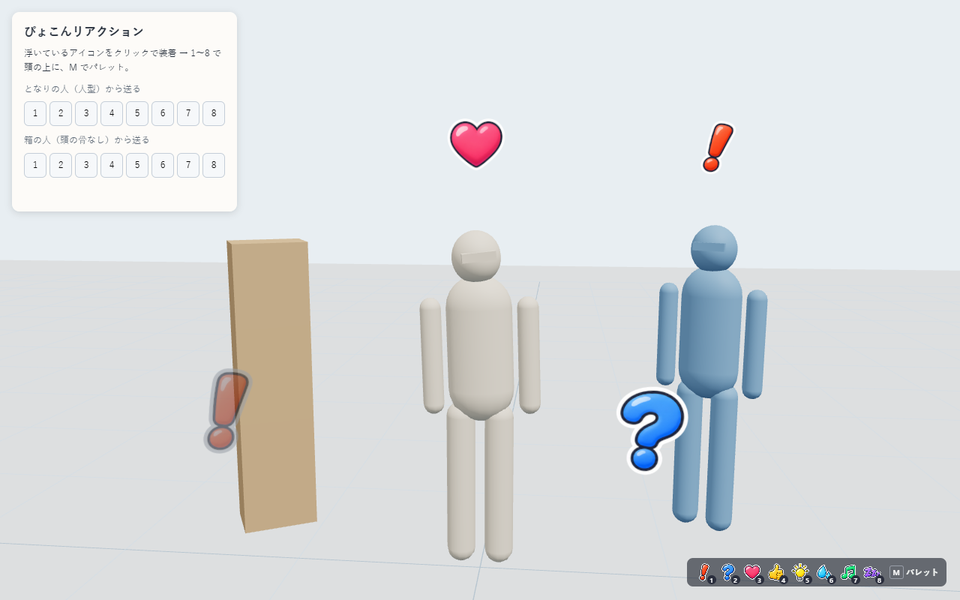
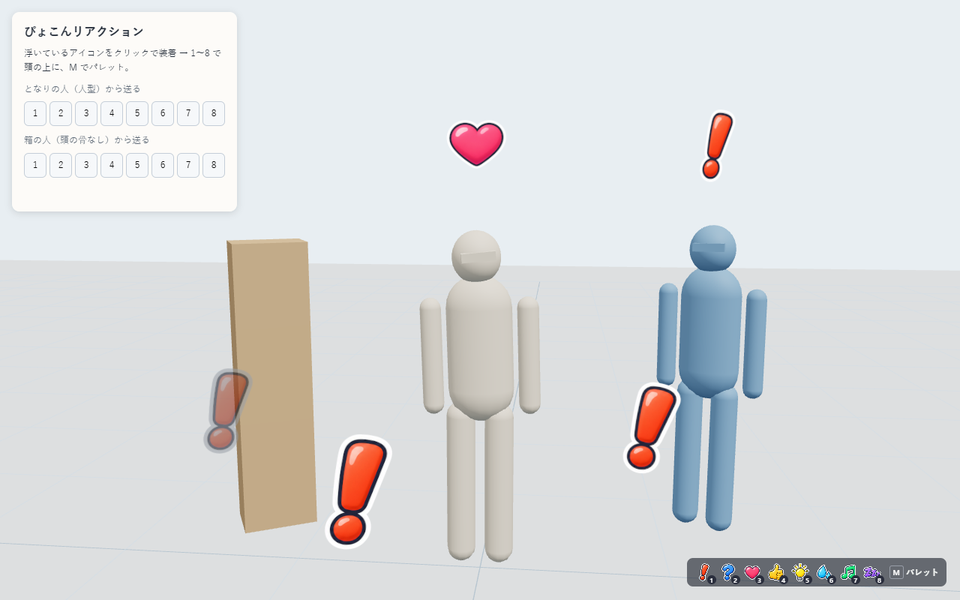
One stand per placer instead of per room
Uses useItem().placedBy (server-set) so a person's extra copies stop,
while copies placed by other people stay usable. Exactly one live copy
per room renders and receives pops; a pop fired from any stand is routed
to it, so reactions never double.

diff --git a/src/Item.tsx b/src/Item.tsx
@@ -8,7 +8,7 @@ import {createHeadTracker} from './head.mjs'
 import {isIconIndex} from './icons.mjs'
 import {isEditing} from './input.mjs'
 import {Palette} from './Palette'
-import {placementRole,registerPlacement,subscribePlacements} from './placements.mjs'
+import {bindRenderer,placementRole,registerPlacement,rendererId,showPop,subscribePlacements} from './placements.mjs'
 import {createPopRuntime} from './pops.mjs'
 import {attachRenderHook} from './render-hook.mjs'
 import {registerShortcuts} from './shortcuts.mjs'
@@ -30,15 +30,18 @@ export function Item(props:ItemProps){
 }
 
 function HeadPop({position=[0,0,0],rotation=[0,0,0],scale=1,clock}:ItemProps){
- const {id}=useItem(),users=useUsers(),placement=usePlacementState(),{scene,gl}=useThree()
+ const {id,placedBy}=useItem(),users=useUsers(),placement=usePlacementState(),{scene,gl}=useThree()
  const texture=useIconAtlas(),geometries=useIconGeometries()
  // Read the context directly: an older host without instance events still shows local pops.
  const events=useContext(InstanceEventContext)
  const preview=placement.mode==='preview',localId=users.localUser?.id??null
- // One stand per room: extra copies stay grey and inert (XRift has no documented single-place switch).
- useLayoutEffect(()=>registerPlacement(id,preview),[id,preview])
+ // One stand per placer: a person's extra copies stay grey and inert (XRift has no documented
+ // single-place switch). One live copy per room renders the pops (see placements.mjs).
+ const placer=placedBy?.id??null
+ useLayoutEffect(()=>registerPlacement(id,preview,placer),[id,preview,placer])
  const role=useSyncExternalStore(subscribePlacements,()=>placementRole(id),()=>'primary')
- const live=!preview&&role==='primary'
+ const isRenderer=useSyncExternalStore(subscribePlacements,()=>rendererId()===id,()=>true)
+ const live=!preview&&role==='primary',renderer=live&&isRenderer
  const [worn,setWorn]=useState(false),[paletteOpen,setPaletteOpen]=useState(false)
  const [fired,setFired]=useState<{icon:number;seq:number}|null>(null),[hintVisible,setHintVisible]=useState(false)
  const root=useRef<Group>(null),layer=useRef<Group>(null)
@@ -71,7 +74,7 @@ function HeadPop({position=[0,0,0],rotation=[0,0,0],scale=1,clock}:ItemProps){
     if(!ctx.worn||!isIconIndex(action.icon))return false
     const t=now();if(t-lastLocalPop.current<LOCAL_GAP_S&&t>=lastLocalPop.current)return true
     lastLocalPop.current=t
-    const seq=runtime.current?.show(ctx.localId,action.icon)??0
+    const seq=showPop(ctx.localId,action.icon)??0
     eventsRef.current?.emit(name,makePayload(action.icon))
     setFired({icon:action.icon,seq})
     if(ctx.paletteOpen){latest.current={...ctx,paletteOpen:false};setPaletteOpen(false)}
@@ -81,18 +84,30 @@ function HeadPop({position=[0,0,0],rotation=[0,0,0],scale=1,clock}:ItemProps){
   return false
  },[name,now])
 
- // Other people's pops. The sender never receives its own event; act() shows it locally.
+ // Other people's pops, received once per room by the renderer copy. The sender never
+ // receives its own event; act() shows it locally through showPop().
  useEffect(()=>{
-  if(!events||!live)return
+  if(!events||!renderer)return
   return events.subscribe(name,data=>{
    const e=readEvent(data);if(!e||e.senderId===latest.current.localId)return
    if(!gate.allow(e.senderId,performance.now()))return
    runtime.current?.show(e.senderId,e.icon)
   })
- },[events,name,live,gate])
+ },[events,name,renderer,gate])
 
+ // Every live stand can be worn; keys go to the single worn copy (shortcuts.mjs).
  useEffect(()=>{
-  if(!live||!root.current||!layer.current)return
+  if(!live||!root.current)return
+  const keys=registerShortcuts(id,{worn:()=>latest.current.worn&&latest.current.live,handle:act})
+  shortcuts.current=keys
+  const node=root.current
+  node.userData.headPopActions={act}
+  return()=>{keys.dispose();shortcuts.current=null;delete node.userData.headPopActions}
+ },[id,live,act])
+
+ // The room's renderer copy owns the head tracking and the pooled icons.
+ useEffect(()=>{
+  if(!renderer||!root.current||!layer.current)return
   const proxy={
    getLocalMovement:()=>usersRef.current.getLocalMovement(),
    getMovement:(userId:string)=>usersRef.current.getMovement(userId),
@@ -103,12 +118,9 @@ function HeadPop({position=[0,0,0],rotation=[0,0,0],scale=1,clock}:ItemProps){
   const pops=createPopRuntime({layer:layer.current,texture,geometries,tracker,getLocalId:()=>latest.current.localId,now})
   runtime.current=pops
   const hook=attachRenderHook(scene,{place:()=>pops.place(),face:camera=>pops.face(camera)})
-  const keys=registerShortcuts(id,{worn:()=>latest.current.worn&&latest.current.live,handle:act})
-  shortcuts.current=keys
-  const node=root.current
-  node.userData.headPopActions={act}
-  return()=>{keys.dispose();hook.dispose();pops.dispose();tracker.clear();runtime.current=null;shortcuts.current=null;delete node.userData.headPopActions;delete node.userData.headPop}
- },[scene,id,live,texture,geometries,act,now])
+  const unbind=bindRenderer(id,(userId:string,icon:number)=>pops.show(userId,icon))
+  return()=>{unbind();hook.dispose();pops.dispose();tracker.clear();runtime.current=null}
+ },[scene,id,renderer,texture,geometries,now])
 
  // A copy that stops being the room's stand (another copy took over) lets go of the wearer.
  useEffect(()=>{if(!live&&latest.current.worn){latest.current={...latest.current,worn:false,paletteOpen:false};setWorn(false);setPaletteOpen(false)}},[live])
@@ -123,12 +135,13 @@ function HeadPop({position=[0,0,0],rotation=[0,0,0],scale=1,clock}:ItemProps){
   const t=frameClock.elapsedTime
   if(root.current&&t-lastReport.current>.1){
    lastReport.current=t
-   root.current.userData.headPop={itemId:id,role,worn:ctx.worn,paletteOpen:ctx.paletteOpen,hint:show,events:events?'instance-event':'unavailable',channel:name,pops:runtime.current?.report()??[],vr:{...vr,fires:vrFires.current},palette:ctx.paletteOpen?paletteLayout.current:null,fired}
+   root.current.userData.headPop={itemId:id,role,renderer,placer,worn:ctx.worn,paletteOpen:ctx.paletteOpen,hint:show,events:events?'instance-event':'unavailable',channel:name,pops:runtime.current?.report()??[],vr:{...vr,fires:vrFires.current},palette:ctx.paletteOpen?paletteLayout.current:null,fired}
   }
  })
 
  const mode:StandMode=preview?(role==='preview-duplicate'?'preview-blocked':'preview'):live?'live':'ghost'
- const standText=mode==='ghost'?'この部屋にはもう置いてあります（これは止まっています）':worn?'リアクションを選ぶ':'頭に付ける（キー1〜8／VRは右スティック押し込み）'
+ const ghostText=placedBy?.isLocalUser?'もう1個置いてあります（これは止まっています。片付けてください）':placer?'同じ人がもう1個置いています（これは止まっています）':'もう1個置いてあります（これは止まっています）'
+ const standText=mode==='ghost'?ghostText:worn?'リアクションを選ぶ':'頭に付ける（キー1〜8／VRは右スティック押し込み）'
  return <group ref={root}>
   <group position={position} rotation={rotation} scale={scale}>
    <Stand id={id} mode={mode} texture={texture} geometries={geometries} interactionText={standText} enabled={!preview&&!!localId} onInteract={()=>{if(latest.current.live)act(latest.current.worn?{type:'palette',open:true}:{type:'wear'})}}/>

diff --git a/src/dev.tsx b/src/dev.tsx
@@ -14,6 +14,7 @@ import './style.css'
 const PLACEMENT='head-pop-one',SDK_ITEM_ID='00000000-0000-4000-8000-0000000000a1'
 /** ?shot: thumbnail framing (two people close together, no panel, no hint). */
 const SHOT=new URLSearchParams(location.search).has('shot')
+const ME={id:'local-dev',displayName:'わたし',avatarUrl:null,isLocalUser:true},NEIGHBOR={id:'remote-a',displayName:'となりの人',avatarUrl:null,isLocalUser:false}
 const REMOTES=[
  {id:'remote-a',displayName:'となりの人',position:SHOT?{x:.82,y:0,z:-.3}:{x:1.25,y:0,z:-.55},yaw:SHOT?Math.PI-.75:Math.PI-.5,kind:'humanoid' as const,color:'#7fa7c9'},
  {id:'remote-b',displayName:'箱の人',position:{x:-1.3,y:0,z:-.5},yaw:Math.PI+.5,kind:'box' as const,color:'#c9a77f'},
@@ -86,7 +87,7 @@ function Readback({clock,bus}:{clock:ReturnType<typeof createDevClock>;bus:Retur
 }
 
 function App(){
- const params=new URLSearchParams(location.search),sdk=params.has('sdk'),shot=SHOT,dup=params.has('dup'),previewing=params.has('preview'),solo=params.get('preview')==='solo'
+ const params=new URLSearchParams(location.search),sdk=params.has('sdk'),shot=SHOT,dup=params.has('dup'),other=params.has('other'),previewing=params.has('preview'),solo=params.get('preview')==='solo'
  const clock=useMemo(createDevClock,[]),bus=useMemo(createDevEvents,[])
  const localYaw=SHOT?Math.PI+.45:Math.PI
  const users=useMemo<UsersContextValue>(()=>({
@@ -107,10 +108,12 @@ function App(){
     {ground}
     <mesh rotation={[-Math.PI/2,0,0]}><planeGeometry args={[30,30]}/><meshStandardMaterial color="#dfe6ea"/></mesh>
     <Avatars localYaw={localYaw}/>
-    <Suspense fallback={null}><group onClick={clickInteractable}>{!solo&&<ItemProvider id={PLACEMENT}><Item position={shot?[3,0,-3]:[.7,0,1.45]} clock={clock.now}/></ItemProvider>}
-     {/* ?dup: a second placed copy (larger id, so it is the extra one). ?preview: a copy being placed. */}
-     {dup&&<ItemProvider id="head-pop-two"><Item position={[-.75,0,1.35]} clock={clock.now}/></ItemProvider>}
-     {previewing&&<PlacementStateProvider mode="preview"><ItemProvider id="head-pop-preview"><Item position={[1.55,0,1.1]} clock={clock.now}/></ItemProvider></PlacementStateProvider>}
+    <Suspense fallback={null}><group onClick={clickInteractable}>{!solo&&<ItemProvider id={PLACEMENT} placedBy={ME}><Item position={shot?[3,0,-3]:[.7,0,1.45]} clock={clock.now}/></ItemProvider>}
+     {/* ?dup: my second copy (larger id, so it is my extra one). ?other: a copy the neighbour placed.
+         ?preview: a copy I am placing. */}
+     {dup&&<ItemProvider id="head-pop-two" placedBy={ME}><Item position={[-.75,0,1.35]} clock={clock.now}/></ItemProvider>}
+     {other&&<ItemProvider id="head-pop-three" placedBy={NEIGHBOR}><Item position={[-.1,0,2.05]} clock={clock.now}/></ItemProvider>}
+     {previewing&&<PlacementStateProvider mode="preview"><ItemProvider id="head-pop-preview" placedBy={ME}><Item position={[1.55,0,1.1]} clock={clock.now}/></ItemProvider></PlacementStateProvider>}
     </group></Suspense>
     <Readback clock={clock} bus={bus}/>
     {!shot&&<OrbitControls makeDefault target={[0,1.45,0]}/>}
